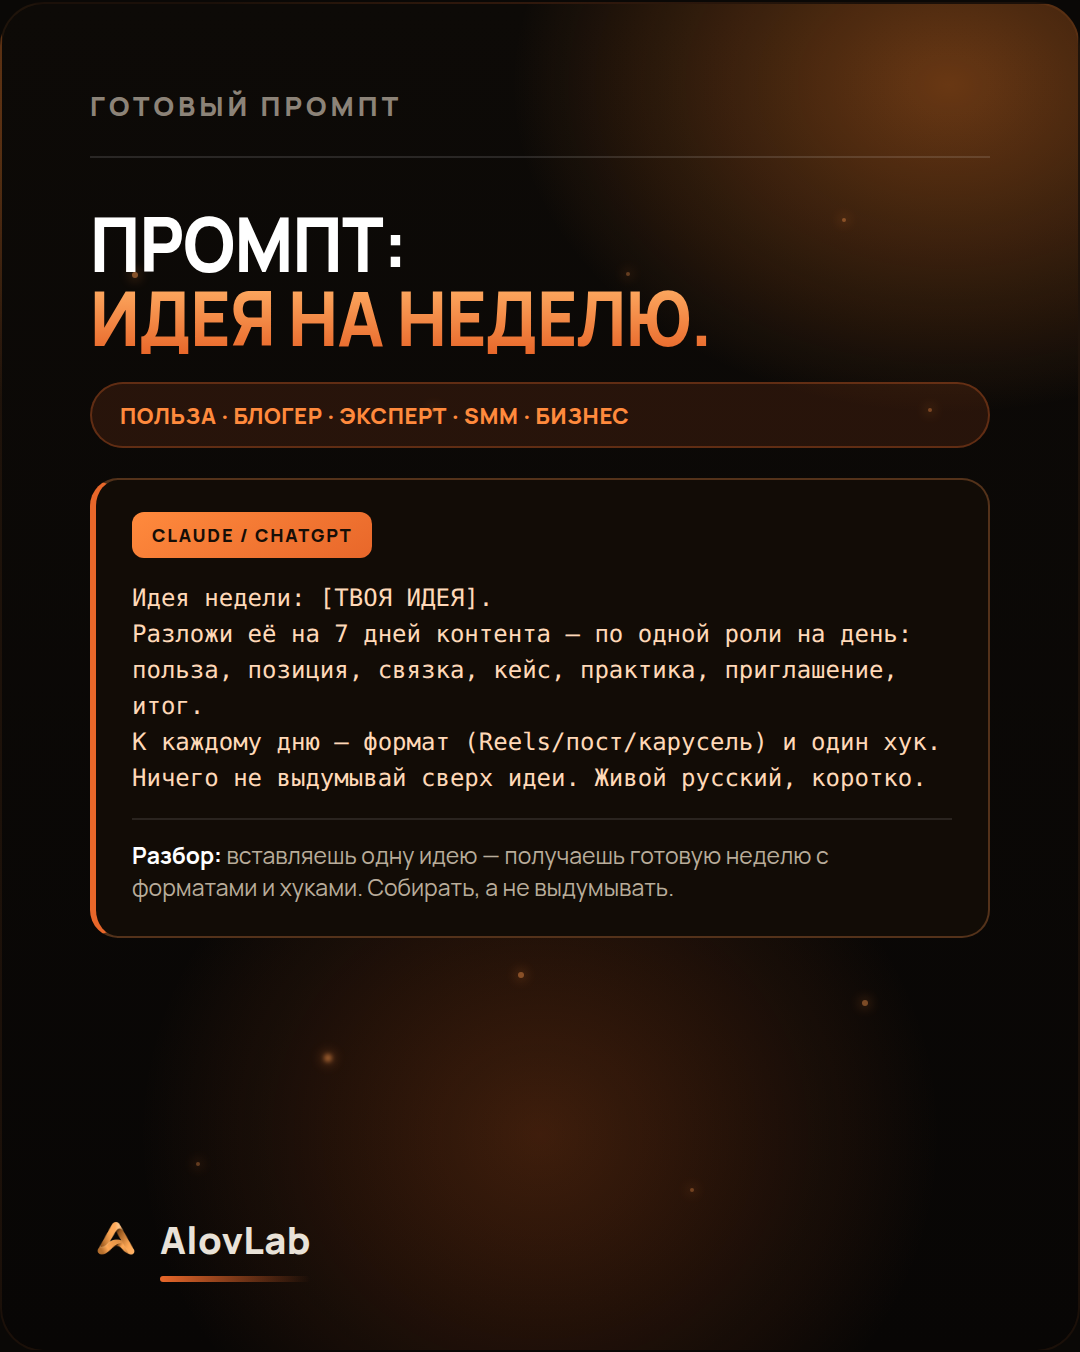
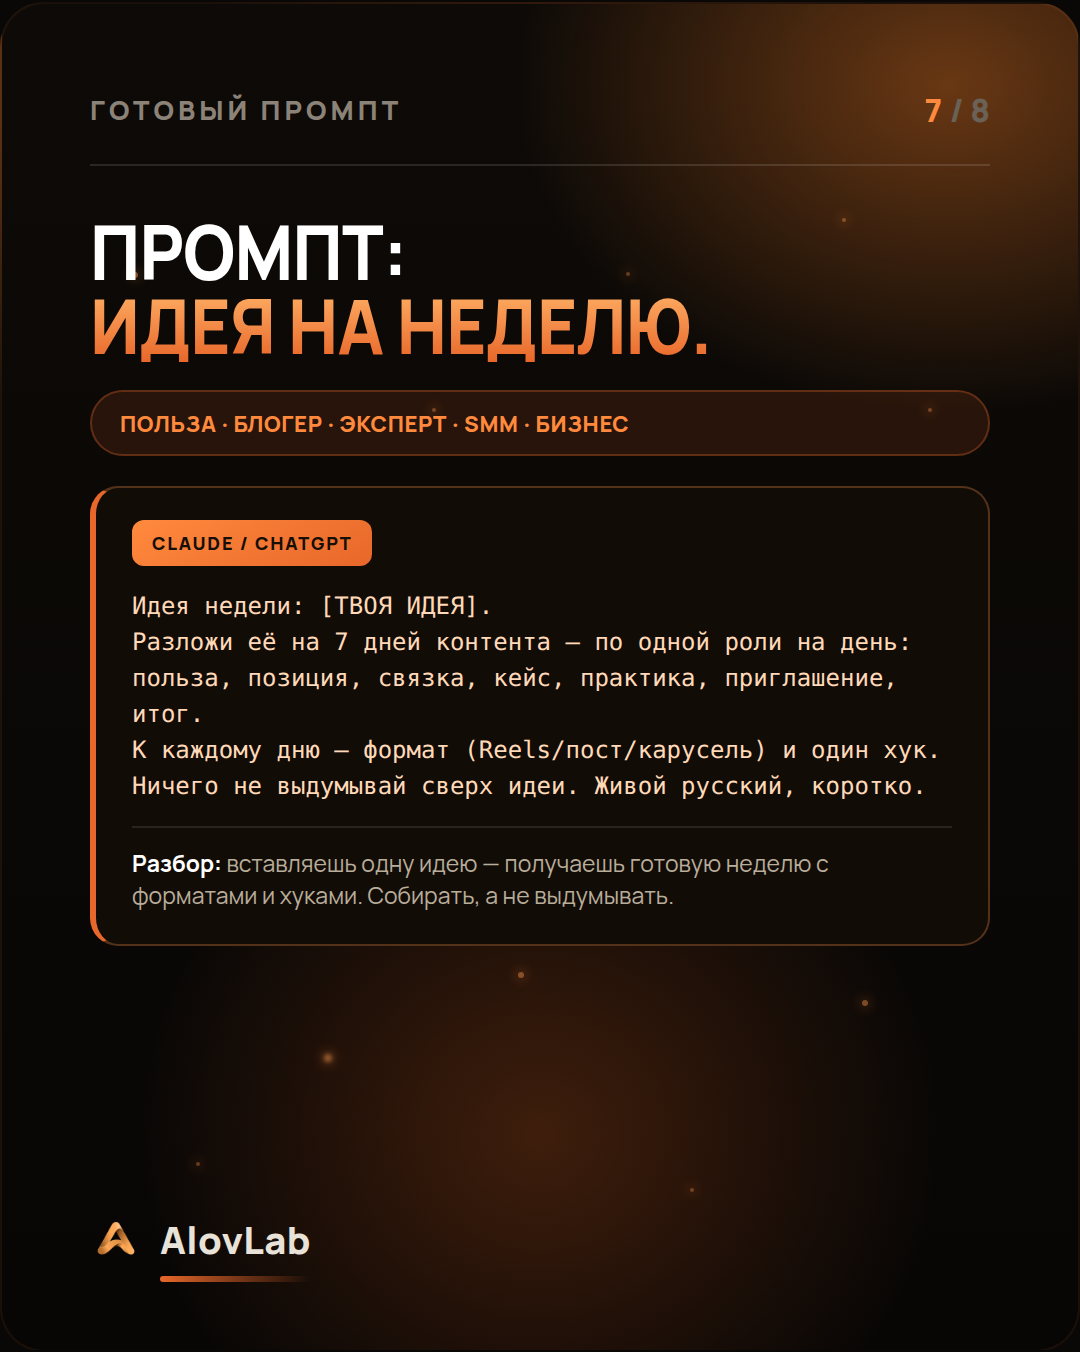
Карусель Дня 7: добавлена нумерация слайдов (N / 8)
Claude-Session: https://claude.ai/code/session_019LoRMaWcrsShywAHDg8vmg

diff --git a/scripts/carousel_showcase_day7.py b/scripts/carousel_showcase_day7.py
@@ -50,21 +50,21 @@ ICONS.update({
  "fork":  '<circle cx="50" cy="72" r="6"/><path d="M50 66V52" stroke="url(#ig)" stroke-width="6" stroke-linecap="round"/><path d="M50 52 26 30M50 52 74 30M50 52 20 46M50 52 80 46" fill="none" stroke="url(#ig)" stroke-width="6" stroke-linecap="round"/>',
 })
 
-def cover(hw, ho, sub, ic):
+def cover(hw, ho, sub, ic, pg):
     return f"""<article class="slide cover">{DEFS}
   <div class="sparks">{sparks()}</div>
   <div class="stage"><div class="rings">{rings()}</div><div class="orbw"><div class="orb big">{icon(ic)}</div></div></div>
-  <div class="top"><span class="eb">AlovLab · система вместо хаоса</span></div>
+  <div class="top"><span class="eb">AlovLab · система вместо хаоса</span><span class="pg">{pg}<b> / 8</b></span></div>
   <div class="head"><h2><span class="w">{hw}</span><span class="o">{ho}</span></h2></div>
   <div class="sub">{sub}</div>
   {FOOT}
 </article>"""
 
-def blk(eb, hw, ho, bl, bm, ic):
+def blk(eb, hw, ho, bl, bm, ic, pg):
     return f"""<article class="slide">{DEFS}
   <div class="sparks">{sparks()}</div>
   <div class="stage"><div class="rings">{rings()}</div><div class="orbw"><div class="orb">{icon(ic)}</div></div></div>
-  <div class="top"><span class="eb">{eb}</span></div>
+  <div class="top"><span class="eb">{eb}</span><span class="pg">{pg}<b> / 8</b></span></div>
   <div class="head"><h2><span class="w">{hw}</span><span class="o">{ho}</span></h2></div>
   <div class="body"><span class="l">{bl}</span> <span class="m">{bm}</span></div>
   {FOOT}
@@ -84,7 +84,7 @@ def roles_slide():
                  for n,t,s in ROLES)
     return f"""<article class="slide mch">{DEFS}
   <div class="sparks">{sparks()}</div>
-  <div class="top"><span class="eb">Решение · 7 ролей</span></div>
+  <div class="top"><span class="eb">Решение · 7 ролей</span><span class="pg">5<b> / 8</b></span></div>
   <div class="head"><h2><span class="w">Одна идея —</span><span class="o">семь ролей.</span></h2></div>
   <div class="mlist">{rows}</div>
   {FOOT}
@@ -102,7 +102,7 @@ def example_slide():
                  for d,r,x in WEEK)
     return f"""<article class="slide">{DEFS}
   <div class="sparks">{sparks()}</div>
-  <div class="top"><span class="eb">Готовый пример</span></div>
+  <div class="top"><span class="eb">Готовый пример</span><span class="pg">6<b> / 8</b></span></div>
   <div class="head"><h2><span class="w">Одна идея —</span><span class="o">вся неделя.</span></h2></div>
   <div class="wk">
     <div class="idea"><b>Идея недели</b>«Дело не в модели, а в связке».</div>
@@ -114,7 +114,7 @@ def example_slide():
 def prompt_slide():
     return f"""<article class="slide hsm">{DEFS}
   <div class="sparks">{sparks()}</div>
-  <div class="top"><span class="eb">Готовый промпт</span></div>
+  <div class="top"><span class="eb">Готовый промпт</span><span class="pg">7<b> / 8</b></span></div>
   <div class="head"><h2><span class="w">Промпт:</span><span class="o">идея на неделю.</span></h2></div>
   <div class="pu">Польза · блогер · эксперт · SMM · бизнес</div>
   <div class="pbox"><span class="tag">Claude / ChatGPT</span><code>Идея недели: [ТВОЯ ИДЕЯ].
@@ -131,7 +131,7 @@ def cta(hw, ho, items, btn):
     return f"""<article class="slide cta">{DEFS}
   <div class="sparks">{sparks()}</div>
   <div class="stage"><div class="rings" style="top:120%">{rings()}</div></div>
-  <div class="top"><span class="eb">Дальше</span></div>
+  <div class="top"><span class="eb">Дальше</span><span class="pg">8<b> / 8</b></span></div>
   <div class="head"><h2><span class="w">{hw}</span><span class="o">{ho}</span></h2></div>
   <div class="clist">{lis}</div>
   <div class="btn">{btn}</div>
@@ -139,10 +139,10 @@ def cta(hw, ho, items, btn):
 </article>"""
 
 SLIDES = [
- cover("Сто постов", "не спасут.", "Слабую идею не вытянет объём. Вытянет связка: одна идея на всю неделю.", "link"),
- blk("Проблема","Один пост","выстрелил.","А дальше — снова с нуля. Один раз повезло,","повторить не смог: не знаешь, почему сработало.","redo"),
- blk("Причина","Удача не","масштабируется.","Отдельные хиты не складываются в результат.","Повторяемость даёт не талант, а система.","sys"),
- blk("Ошибка","Ты ищешь","семь тем.","А нужна одна. Каждый день новая тема — это хаос.","Сила не в количестве, а в глубине одной идеи.","fork"),
+ cover("Сто постов", "не спасут.", "Слабую идею не вытянет объём. Вытянет связка: одна идея на всю неделю.", "link", 1),
+ blk("Проблема","Один пост","выстрелил.","А дальше — снова с нуля. Один раз повезло,","повторить не смог: не знаешь, почему сработало.","redo", 2),
+ blk("Причина","Удача не","масштабируется.","Отдельные хиты не складываются в результат.","Повторяемость даёт не талант, а система.","sys", 3),
+ blk("Ошибка","Ты ищешь","семь тем.","А нужна одна. Каждый день новая тема — это хаос.","Сила не в количестве, а в глубине одной идеи.","fork", 4),
  roles_slide(),
  example_slide(),
  prompt_slide(),
